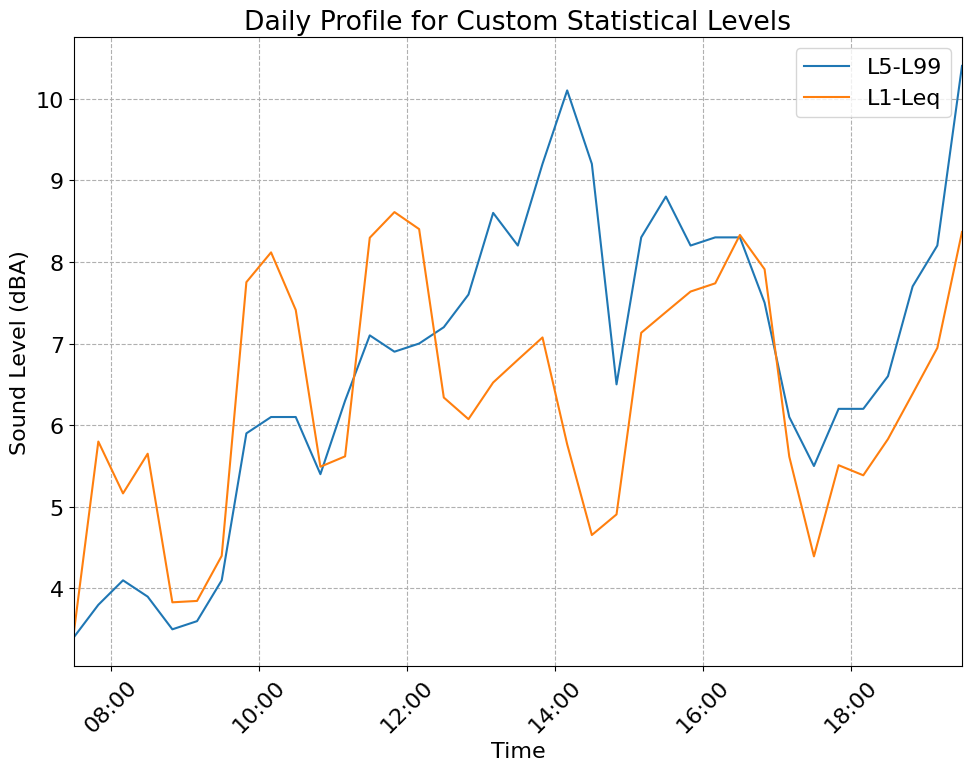
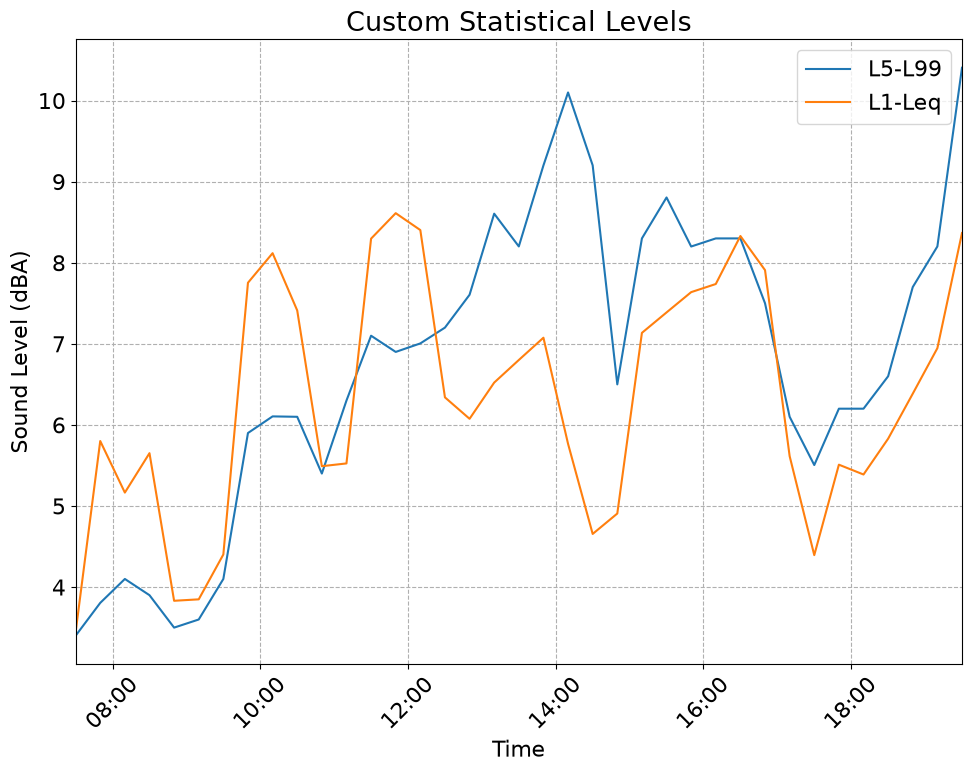
Update CI actions to Node 24 versions; refresh usage guide images
- Workflows: actions/checkout v4 -> v7, actions/setup-python v5 -> v7,
  actions/upload-artifact v4 -> v7, actions/download-artifact v4 -> v8
  (the old versions target the deprecated Node.js 20).
- Usage guide: the weekend profile example uses the same hours as the
  weekday one (23 to 22 h), so both curves line up in the comparison plot.
- Rebuilt images that no longer matched the guide's code: weekday
  profile (Leq and L90), weekday vs. weekend comparison, custom
  statistical levels (title), and the three frequency heatmaps (axis
  label now in Hz).

diff --git a/docs/usage.md b/docs/usage.md
@@ -393,11 +393,11 @@ weekday_profile = nm.profile.periodic(
     step=1200
 )
 
-# Weekend profile (Sat-Sun)
+# Weekend profile (Sat-Sun), over the same hours as the weekday profile
 weekend_profile = nm.profile.periodic(
     df_1m,
-    hour1=0,
-    hour2=23,
+    hour1=23,
+    hour2=22,
     day1='saturday',
     day2='sunday',
     win=3600,
